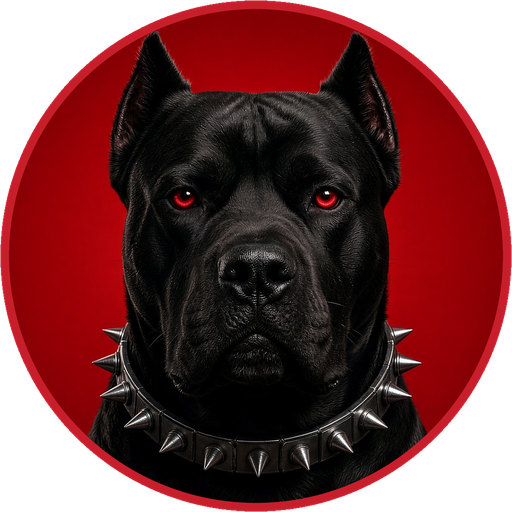
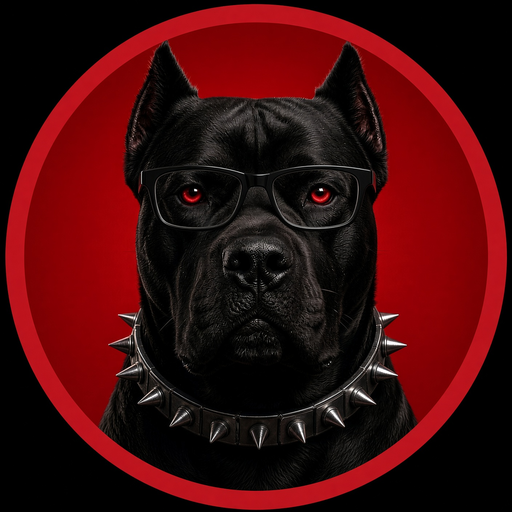
Give the nav dog glasses and a thicker red ring.

diff --git a/src/components/site-header.tsx b/src/components/site-header.tsx
@@ -23,7 +23,7 @@ export function SiteHeader({
             className="relative z-10 flex shrink-0 items-center gap-1.5 no-underline sm:gap-2.5"
           >
             <img
-              src="/token-avatar.png?v=9"
+              src="/token-avatar.png?v=10"
               alt={SITE.ticker}
               className="size-8 min-h-8 min-w-8 shrink-0 rounded-full object-cover sm:size-14 sm:min-h-14 sm:min-w-14"
             />
